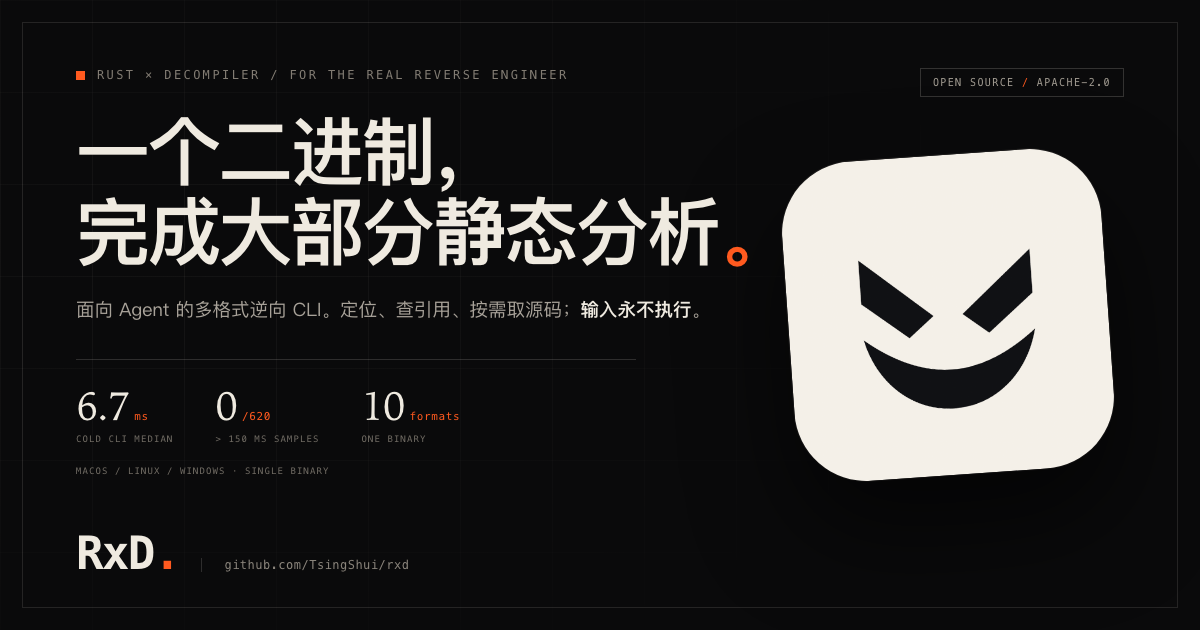
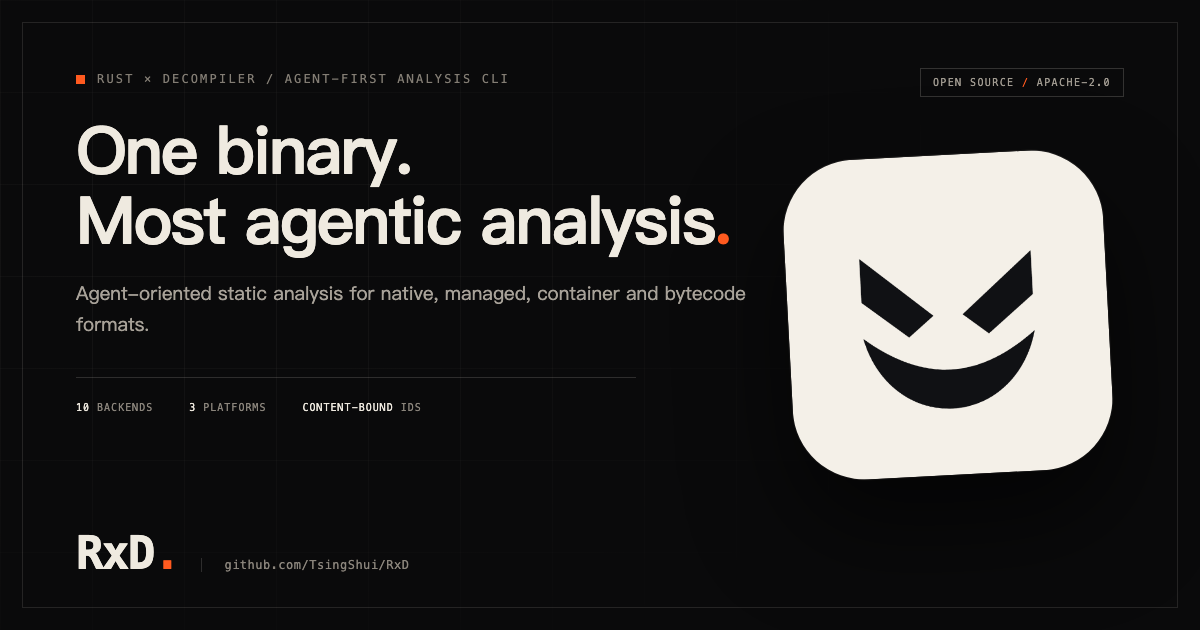
[AUTOMATED] Remove execution claims from the public site
Drop the no-execution principle from both language trees, the hero, examples, Arxd, RoadMap and ChangeLog, and regenerate the social card without the old claim.

diff --git a/site/arxd.html b/site/arxd.html
@@ -61,9 +61,9 @@
     <div class="feature-grid">
       <article><h3>On-device models</h3><p>Download the pinned Qwen3.5-2B Q4_K_M (1.28 GB) or import a GGUF. llama.rn runs text inference on CPU, up to 8k context and a 1,024-token reply. Thinking is opt-in. Models are not embedded in the APK; imports are SHA-256 bound and must pass a real-engine probe.</p></article>
       <article><h3>Model connections</h3><p>OpenAI Completions/Responses, Anthropic Messages and Google Generative AI through Pi AI. Named connections, model settings and device credentials; credentials use Android Keystore/SecureStore. Local HTTP endpoints are supported with an explicit unencrypted warning.</p></article>
-      <article><h3>Real analysis</h3><p>The embedded ARM64 rxd covers JS, ASAR, HTML, APK/DEX, JVM, .NET, WASM, EVM, PYC and Kuna. <code>rxd_file_outline</code> is a bounded JS fast path; other formats use <code>$ARXD_RXD</code> in the shell. Analyzed source is never executed.</p></article>
+      <article><h3>Real analysis</h3><p>The embedded ARM64 rxd covers JS, ASAR, HTML, APK/DEX, JVM, .NET, WASM, EVM, PYC and Kuna. <code>rxd_file_outline</code> is a bounded JS fast path; other formats use <code>$ARXD_RXD</code> in the shell.</p></article>
       <article><h3>Durable workspace</h3><p>Pi-durable handles conversations, tool rounds and persistence. SQLite keeps history, archives, attachments and reports. Deleting a conversation does not delete files from the library.</p></article>
-      <article><h3>Files and skills</h3><p>Browse, edit, copy, share and attach files. Import <code>SKILL.md</code>, a directory or a workspace skill; imports are disabled by default and never execute scripts. The Agent loads admitted skills on demand.</p></article>
+      <article><h3>Files and skills</h3><p>Browse, edit, copy, share and attach files. Import <code>SKILL.md</code>, a directory or a workspace skill; imports are disabled by default. The Agent loads admitted skills on demand.</p></article>
       <article><h3>MCP and processes</h3><p>Save stdio launch definitions or HTTP(S) endpoints, connect and discover tools. Long-running process instances are visible and stopped explicitly. Plain HTTP is loopback-only on Android.</p></article>
     </div>
   </section>
@@ -87,7 +87,7 @@
     <div class="feature-grid">
       <article><h3>Android ARM64 only</h3><p>Build from source following <code>apps/arxd/README.md</code>. Device evidence and host checks are recorded separately; there is no published APK yet.</p></article>
       <article><h3>The on-device model is not a sandbox</h3><p>The 2B CPU path differs in capability and latency from cloud models. The shell tool does not provide network isolation; untrusted input should still be isolated outside the device.</p></article>
-      <article><h3>Import is not execution</h3><p>Skill imports do not run scripts, and model files are not embedded in the APK. Enable only workflows you trust. Model imports must pass hash, template and tool-parser probes.</p></article>
+      <article><h3>Imports are explicit</h3><p>Skill and model imports are disabled by default; enable only workflows you trust. Model files are not embedded in the APK, and imports must pass hash, template and tool-parser probes.</p></article>
     </div>
   </section>
 

diff --git a/site/index.html b/site/index.html
@@ -4,7 +4,7 @@
 <meta charset="utf-8">
 <meta name="viewport" content="width=device-width, initial-scale=1">
 <title>RxD — one binary for most agentic analysis</title>
-<meta name="description" content="RxD is an open-source, Agent-oriented analysis CLI for native, managed, container and bytecode formats. One binary, content-bound IDs, no input execution.">
+<meta name="description" content="RxD is an open-source, Agent-oriented analysis CLI for native, managed, container and bytecode formats. One binary, content-bound IDs, deterministic records.">
 <meta name="theme-color" content="#0a0a0b">
 <link rel="canonical" href="https://tsingshui.github.io/RxD/">
 <link rel="alternate" hreflang="en" href="https://tsingshui.github.io/RxD/">
@@ -48,7 +48,7 @@
       <div class="hero-copy">
         <p class="kicker">RUST × DECOMPILER / AGENT-FIRST ANALYSIS CLI</p>
         <h1>One binary.<br>Most agentic analysis.</h1>
-        <p class="lede">Native, APK, JAR, JavaScript, .NET, WASM, PYC and EVM — locate a clue, find references, and fetch the original unit. Content-bound IDs, deterministic records, and input that is never executed.</p>
+        <p class="lede">Native, APK, JAR, JavaScript, .NET, WASM, PYC and EVM — locate a clue, find references, and fetch the original unit. Content-bound IDs, deterministic records, and byte-exact extraction.</p>
         <div class="hero-actions">
           <a class="btn btn-primary" href="#install">Get started <span aria-hidden="true">→</span></a>
           <a class="btn btn-ghost" href="https://github.com/TsingShui/RxD">GitHub repository <span aria-hidden="true">↗</span></a>
@@ -56,12 +56,12 @@
         <ul class="hero-meta">
           <li>Single executable</li>
           <li>Apache-2.0</li>
-          <li>Inputs never run</li>
+          <li>Byte-exact extraction</li>
         </ul>
       </div>
       <figure class="hero-mark" aria-label="RxD mark">
         <img src="assets/arxd-light-1024.png" alt="" width="420" height="420">
-        <figcaption>RXD / CONTENT-BOUND / STATIC-ONLY</figcaption>
+        <figcaption>RXD / CONTENT-BOUND / BYTE-EXACT</figcaption>
       </figure>
     </div>
   </section>
@@ -90,7 +90,7 @@ target/release/rxd skill install -a pi</code></pre>
       <div class="feature-grid">
         <article><h3>Content-bound identity</h3><p>Every ID binds the input hash and a real byte range. Extraction returns original bytes, never a reconstruction of the address.</p></article>
         <article><h3>Agent-first output</h3><p>Stable JSONL envelopes: header, records and summary. Detail is a closed per-record schema. Raw source stays byte-exact.</p></article>
-        <article><h3>No execution</h3><p>Parsers read fixed buffers. Inputs and recovered modules are never executed; budgets and atomic failures are explicit.</p></article>
+        <article><h3>Explicit budgets</h3><p>Record, decode and input limits are explicit. Oversized work fails and output stays atomic.</p></article>
         <article><h3>Honest degradation</h3><p>When a decompiler cannot recover a unit, the full original IL/bytecode/instructions and a reason remain. Partial guesses are not returned.</p></article>
       </div>
     </div>

diff --git a/site/zh/arxd.html b/site/zh/arxd.html
@@ -62,9 +62,9 @@
     <div class="feature-grid">
       <article><h3>端侧模型</h3><p>下载固定 Qwen3.5-2B Q4_K_M（1.28 GB）或导入 GGUF。llama.rn 在 CPU 上做文本推理，最高 8k 上下文、1,024 token 回复，thinking 可选。模型不内嵌 APK；导入按 SHA-256 绑定并通过真实引擎探针。</p></article>
       <article><h3>模型连接</h3><p>通过 Pi AI 接入 OpenAI Completions/Responses、Anthropic Messages 与 Google Generative AI。命名连接、模型设置与设备凭据；凭据使用 Android Keystore/SecureStore。本地 HTTP 端点有明确的未加密提示。</p></article>
-      <article><h3>真实分析</h3><p>内嵌 ARM64 rxd 覆盖 JS、ASAR、HTML、APK/DEX、JVM、.NET、WASM、EVM、PYC 与 Kuna。<code>rxd_file_outline</code> 是有界 JS 快路径，其他格式走 shell 里的 <code>$ARXD_RXD</code>。分析源码永不执行。</p></article>
+      <article><h3>真实分析</h3><p>内嵌 ARM64 rxd 覆盖 JS、ASAR、HTML、APK/DEX、JVM、.NET、WASM、EVM、PYC 与 Kuna。<code>rxd_file_outline</code> 是有界 JS 快路径，其他格式走 shell 里的 <code>$ARXD_RXD</code>。</p></article>
       <article><h3>持久工作区</h3><p>Pi-durable 管理对话、工具轮次与持久化。SQLite 保留历史、归档、附件与报告。删除会话不会删除文件库。</p></article>
-      <article><h3>文件与 Skills</h3><p>浏览、编辑、复制、分享与附加文件。导入 <code>SKILL.md</code>、目录或工作区技能；默认禁用，导入永不执行脚本。Agent 按需加载已准入的 Skills。</p></article>
+      <article><h3>文件与 Skills</h3><p>浏览、编辑、复制、分享与附加文件。导入 <code>SKILL.md</code>、目录或工作区技能；默认禁用。Agent 按需加载已准入的 Skills。</p></article>
       <article><h3>MCP 与后台进程</h3><p>保存 stdio 启动定义或 HTTP(S) 端点，连接并发现工具。长任务实例可见，停止是显式动作。Android 上的明文 HTTP 仅限 loopback。</p></article>
     </div>
   </section>
@@ -88,7 +88,7 @@
     <div class="feature-grid">
       <article><h3>仅 Android ARM64</h3><p>按 <code>apps/arxd/README.md</code> 从源码构建。设备证据与宿主机检查分开记录；尚未发布 APK。</p></article>
       <article><h3>端侧模型不是沙箱</h3><p>2B CPU 路径的能力与延迟不同于云端模型。shell 工具不提供网络隔离；不可信输入仍应在设备外隔离。</p></article>
-      <article><h3>导入不等于执行</h3><p>Skill 导入不运行脚本，模型文件不内嵌 APK。只启用你信任的工作流。模型导入必须通过哈希、模板与工具解析器探针。</p></article>
+      <article><h3>导入是显式动作</h3><p>Skills 与模型默认禁用，只启用你信任的工作流。模型文件不内嵌 APK，导入必须通过哈希、模板与工具解析器探针。</p></article>
     </div>
   </section>
 

diff --git a/site/zh/index.html b/site/zh/index.html
@@ -4,7 +4,7 @@
 <meta charset="utf-8">
 <meta name="viewport" content="width=device-width, initial-scale=1">
 <title>RxD — 一个二进制，完成大部分静态分析</title>
-<meta name="description" content="RxD 是面向 Agent 的开源分析 CLI，覆盖原生、托管、容器与字节码格式。一个二进制、内容绑定 ID，输入永不执行。">
+<meta name="description" content="RxD 是面向 Agent 的开源分析 CLI，覆盖原生、托管、容器与字节码格式。一个二进制、内容绑定 ID、确定性记录。">
 <meta name="theme-color" content="#0a0a0b">
 <link rel="canonical" href="https://tsingshui.github.io/RxD/zh/">
 <link rel="alternate" hreflang="en" href="https://tsingshui.github.io/RxD/">
@@ -47,7 +47,7 @@
       <div class="hero-copy">
         <p class="kicker">RUST × DECOMPILER / 面向 AGENT 的分析 CLI</p>
         <h1>一个二进制。<br>完成大部分静态分析。</h1>
-        <p class="lede">Native、APK、JAR、JavaScript、.NET、WASM、PYC 与 EVM —— 定位线索、追踪引用、按需取回原始单元。内容绑定 ID、确定性记录，输入永不执行。</p>
+        <p class="lede">Native、APK、JAR、JavaScript、.NET、WASM、PYC 与 EVM —— 定位线索、追踪引用、按需取回原始单元。内容绑定 ID、确定性记录。</p>
         <div class="hero-actions">
           <a class="btn btn-primary" href="#install">立即上手 <span aria-hidden="true">→</span></a>
           <a class="btn btn-ghost" href="https://github.com/TsingShui/RxD">GitHub 仓库 <span aria-hidden="true">↗</span></a>
@@ -55,7 +55,7 @@
         <ul class="hero-meta">
           <li>单文件可执行</li>
           <li>Apache-2.0</li>
-          <li>输入永不执行</li>
+          <li>字节精确提取</li>
         </ul>
       </div>
       <figure class="console" aria-label="RxD 命令示例">
@@ -104,7 +104,7 @@ target/release/rxd skill install -a pi</code></pre>
       <div class="feature-grid">
         <article><h3>内容绑定身份</h3><p>每个 ID 绑定输入哈希与真实字节区间。提取返回原始字节，而不是重新构造地址。</p></article>
         <article><h3>Agent 优先输出</h3><p>稳定 JSONL 信封：header、records、summary。detail 是闭合的逐记录 schema；原始源码保持字节精确。</p></article>
-        <article><h3>永不执行</h3><p>解析器只读固定缓冲区。输入与恢复出的模块永不执行；预算与原子失败都是显式的。</p></article>
+        <article><h3>显式预算</h3><p>记录数、解码量与输入大小都有显式上限。超限是错误，输出保持原子。</p></article>
         <article><h3>诚实降级</h3><p>反编译器无法恢复某个单元时，保留完整原始 IL／字节码／指令与原因，不返回部分猜测。</p></article>
       </div>
     </div>

diff --git a/site/roadmap.html b/site/roadmap.html
@@ -179,13 +179,6 @@
         </div>
       </div>
       <div class="rm-item">
-        <span class="rm-status is-hold">Never</span>
-        <div class="rm-body">
-          <h3>Executing input / dynamic behavior</h3>
-          <p>Inputs are never run, modules are never instantiated and pages are never loaded. RxD reads static bytes and does not claim runtime semantics.</p>
-        </div>
-      </div>
-      <div class="rm-item">
         <span class="rm-status is-hold">Design boundary</span>
         <div class="rm-body">
           <h3>Human terminal UI</h3>
@@ -203,7 +196,7 @@
     </div>
     <div class="feature-grid">
       <article><h3>Agent-first</h3><p>Low latency, low token cost and structured output. Query precision is never traded for a human presentation layer.</p></article>
-      <article><h3>Static-only</h3><p>Inputs never execute. Capability is bounded by static facts, content identity and explicit budgets.</p></article>
+      <article><h3>Bounded</h3><p>Capability is bounded by content identity, explicit budgets and deterministic output.</p></article>
       <article><h3>Measured</h3><p>150 ms is the backend acceptance line. Exceptions need scope, release measurements and approval; they do not transfer to other inputs.</p></article>
     </div>
   </section>

diff --git a/site/zh/roadmap.html b/site/zh/roadmap.html
@@ -177,13 +177,6 @@
         </div>
       </div>
       <div class="rm-item">
-        <span class="rm-status is-hold">永不</span>
-        <div class="rm-body">
-          <h3>执行输入 / 动态行为</h3>
-          <p>输入永不运行、模块永不实例化、页面永不加载。RxD 只读静态字节，不承诺运行时语义。</p>
-        </div>
-      </div>
-      <div class="rm-item">
         <span class="rm-status is-hold">设计边界</span>
         <div class="rm-body">
           <h3>人类终端 UI</h3>
@@ -201,7 +194,7 @@
     </div>
     <div class="feature-grid">
       <article><h3>Agent 优先</h3><p>低延迟、低 token 与结构化输出。不为了人类展示层牺牲查询精度。</p></article>
-      <article><h3>只做静态</h3><p>输入永不执行。能力以静态事实、内容身份与显式预算为边界。</p></article>
+      <article><h3>有界</h3><p>能力以内容身份、显式预算与确定性输出为边界。</p></article>
       <article><h3>实测为准</h3><p>150 ms 是后端验收线。例外需要范围、release 实测与批准，不外推到其他输入。</p></article>
     </div>
   </section>

diff --git a/site/examples.html b/site/examples.html
@@ -47,7 +47,7 @@
 
   <section class="section">
     <h2>APK: find Authorization, then fetch the class</h2>
-    <p class="section-lede">Search the string table, route the hit to its referencing class, then fetch Java by descriptor. The APK is never installed or run.</p>
+    <p class="section-lede">Search the string table, route the hit to its referencing class, then fetch Java by descriptor.</p>
     <pre><code>rxd dex strings app.apk --filter Authorization --limit 20
 rxd dex findrefs app.apk string Authorization
 rxd dex get-class app.apk 'Lcom/example/Main;'</code></pre>
@@ -56,7 +56,7 @@ rxd dex get-class app.apk 'Lcom/example/Main;'</code></pre>
 
   <section class="section">
     <h2>JavaScript: locate a request handler</h2>
-    <p class="section-lede">No execution, no deobfuscation. Inspect structure, search decoded literals, then fetch original source by ID.</p>
+    <p class="section-lede">No deobfuscation. Inspect structure, search decoded literals, then fetch original source by ID.</p>
     <pre><code>rxd js outline bundle.js --jsonl
 rxd js find bundle.js --string '/api/login'
 rxd js refs bundle.js --byte 122

diff --git a/site/zh/examples.html b/site/zh/examples.html
@@ -48,7 +48,7 @@
 
   <section class="section">
     <h2>APK：找到 Authorization，再取回它的类</h2>
-    <p class="section-lede">搜索字符串表，把命中路由到引用类，再按 descriptor 取 Java。APK 永不安装、永不运行。</p>
+    <p class="section-lede">搜索字符串表，把命中路由到引用类，再按 descriptor 取 Java。</p>
     <pre><code>rxd dex strings app.apk --filter Authorization --limit 20
 rxd dex findrefs app.apk string Authorization
 rxd dex get-class app.apk 'Lcom/example/Main;'</code></pre>
@@ -57,7 +57,7 @@ rxd dex get-class app.apk 'Lcom/example/Main;'</code></pre>
 
   <section class="section">
     <h2>JavaScript：定位一个请求处理器</h2>
-    <p class="section-lede">不执行、不去混淆。看结构，搜解码字面量，再按 ID 取原始源码。</p>
+    <p class="section-lede">不去混淆。看结构，搜解码字面量，再按 ID 取原始源码。</p>
     <pre><code>rxd js outline bundle.js --jsonl
 rxd js find bundle.js --string '/api/login'
 rxd js refs bundle.js --byte 122

diff --git a/site/changelog.html b/site/changelog.html
@@ -84,7 +84,7 @@
       <div class="log-body">
         <h3>HTML lexical container</h3>
         <ul>
-          <li><code>list</code> and <code>extract</code> for lexical HTML records and byte-exact node extraction. No DOM, no page execution and no external resource loading.</li>
+          <li><code>list</code> and <code>extract</code> for lexical HTML records and byte-exact node extraction.</li>
         </ul>
       </div>
     </article>
@@ -95,7 +95,7 @@
         <h3>EVM static closure</h3>
         <ul>
           <li>EVMole 0.9.4 native analysis: interface, storage, CFG and metadata, plus declared on-demand pseudocode reconstruction.</li>
-          <li>Static navigation closure accepted. No claim of complete runtime semantics or an arbitrary ABI.</li>
+          <li>Static navigation closure accepted; inferred results are not presented as a complete ABI.</li>
         </ul>
       </div>
     </article>

diff --git a/site/zh/changelog.html b/site/zh/changelog.html
@@ -82,7 +82,7 @@
       <div class="log-body">
         <h3>HTML 词法容器</h3>
         <ul>
-          <li>HTML 词法记录的 <code>list</code> 与 <code>extract</code>，按节点字节精确提取。不做 DOM、不执行页面、不加载外部资源。</li>
+          <li>HTML 词法记录的 <code>list</code> 与 <code>extract</code>，按节点字节精确提取。</li>
         </ul>
       </div>
     </article>
@@ -93,7 +93,7 @@
         <h3>EVM 静态闭环</h3>
         <ul>
           <li>EVMole 0.9.4 原生分析：接口、存储、CFG、元数据，以及声明支持的按需伪代码重建。</li>
-          <li>静态导航闭环已验收。不宣称完整运行时语义或任意 ABI。</li>
+          <li>静态导航闭环已验收，不把推断结果当作完整 ABI。</li>
         </ul>
       </div>
     </article>
